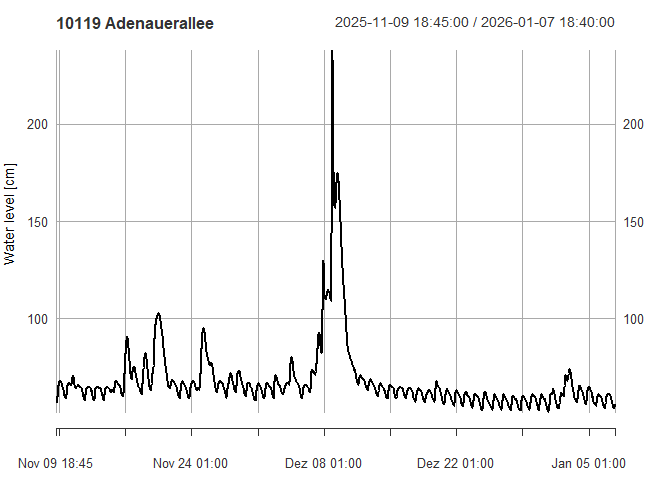
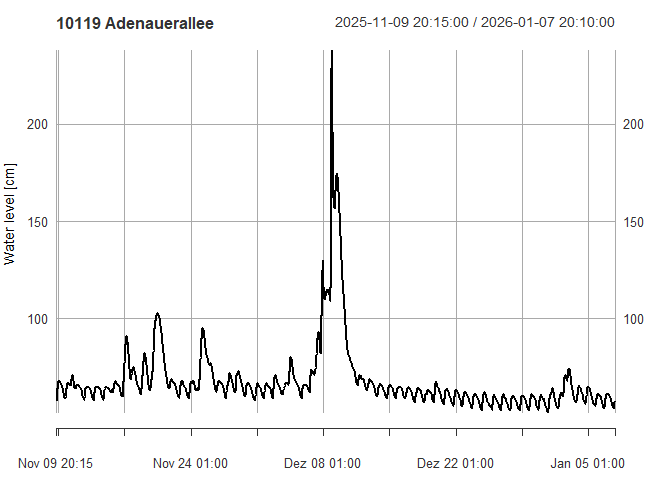
README

diff --git a/README.md b/README.md
@@ -35,7 +35,7 @@ library(NRWgauges)
 
 ## Basic example: EGLV
 
-### Get gauge metadata, locations and latest measurements
+### Get gauge locations and metadata
 
 ``` r
 # fetch all available gauges
@@ -100,27 +100,27 @@ get_eglv_meta(gauge)
 meas <- get_eglv_measurements(gauge)[[1]]
 meas
 #>                     Wasserstand
-#> 2025-11-09 18:45:00          57
-#> 2025-11-09 18:50:00          57
-#> 2025-11-09 18:55:00          57
-#> 2025-11-09 19:00:00          57
-#> 2025-11-09 19:05:00          57
-#> 2025-11-09 19:10:00          57
-#> 2025-11-09 19:15:00          57
-#> 2025-11-09 19:20:00          57
-#> 2025-11-09 19:25:00          57
-#> 2025-11-09 19:30:00          57
+#> 2025-11-09 20:15:00          58
+#> 2025-11-09 20:20:00          58
+#> 2025-11-09 20:25:00          58
+#> 2025-11-09 20:30:00          58
+#> 2025-11-09 20:35:00          58
+#> 2025-11-09 20:40:00          58
+#> 2025-11-09 20:45:00          58
+#> 2025-11-09 20:50:00          58
+#> 2025-11-09 20:55:00          58
+#> 2025-11-09 21:00:00          58
 #>                 ...            
-#> 2026-01-07 17:55:00          55
-#> 2026-01-07 18:00:00          55
-#> 2026-01-07 18:05:00          55
-#> 2026-01-07 18:10:00          55
-#> 2026-01-07 18:15:00          55
-#> 2026-01-07 18:20:00          55
-#> 2026-01-07 18:25:00          55
-#> 2026-01-07 18:30:00          55
-#> 2026-01-07 18:35:00          55
-#> 2026-01-07 18:40:00          56
+#> 2026-01-07 19:25:00          57
+#> 2026-01-07 19:30:00          57
+#> 2026-01-07 19:35:00          57
+#> 2026-01-07 19:40:00          57
+#> 2026-01-07 19:45:00          57
+#> 2026-01-07 19:50:00          57
+#> 2026-01-07 19:55:00          58
+#> 2026-01-07 20:00:00          58
+#> 2026-01-07 20:05:00          58
+#> 2026-01-07 20:10:00          58
 
 class(meas)
 #> [1] "xts" "zoo"
